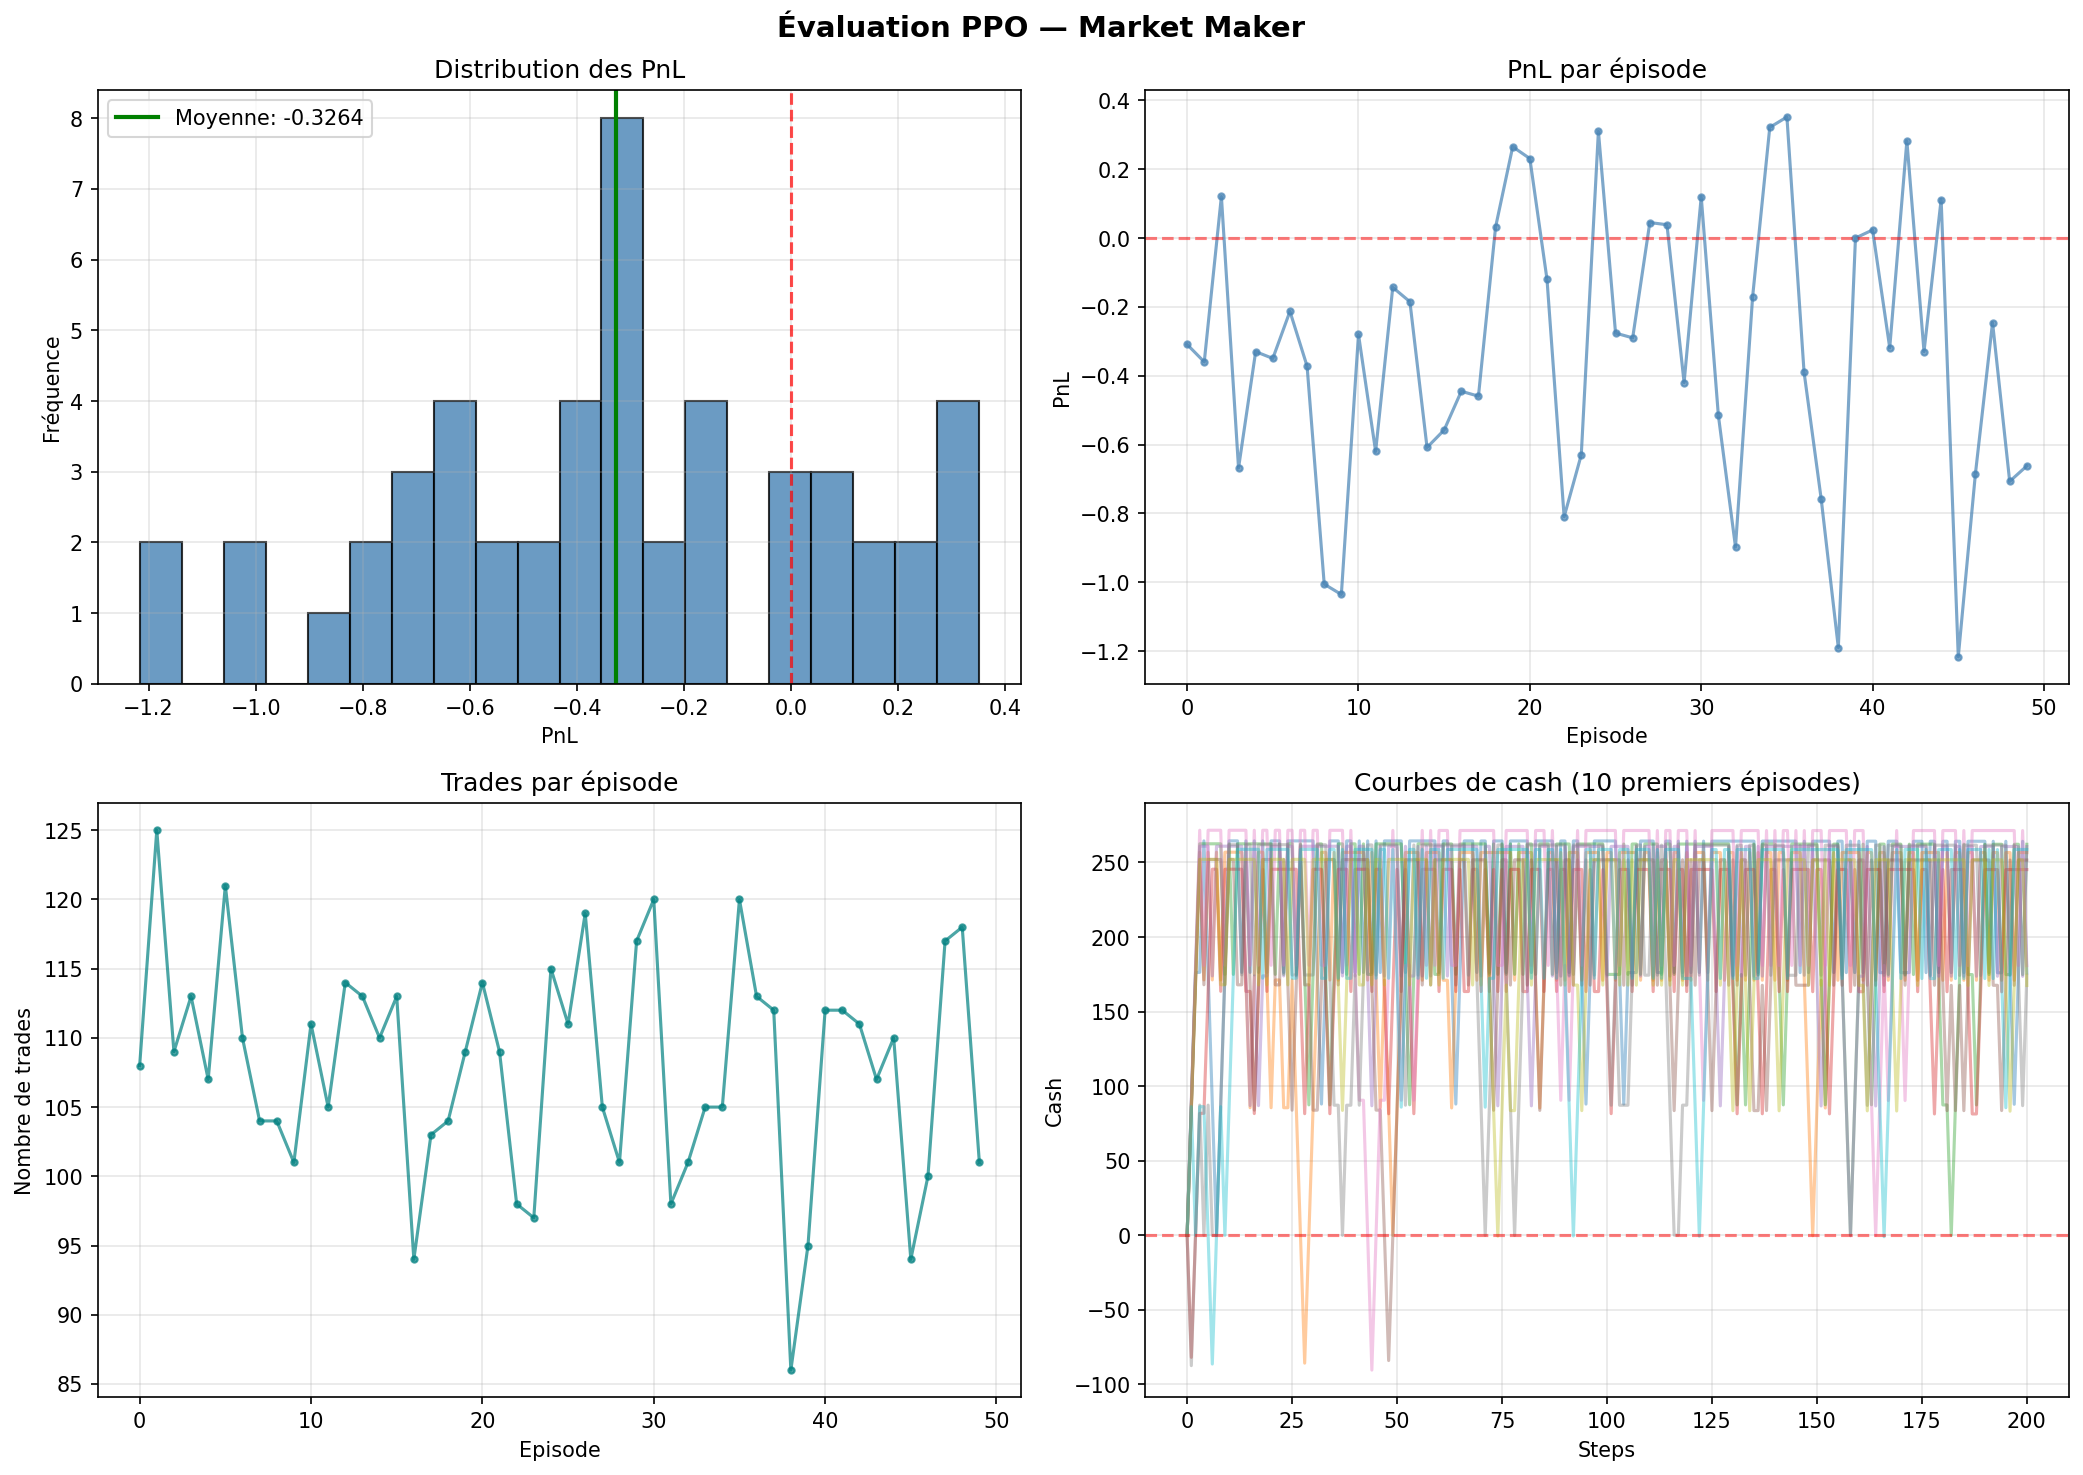
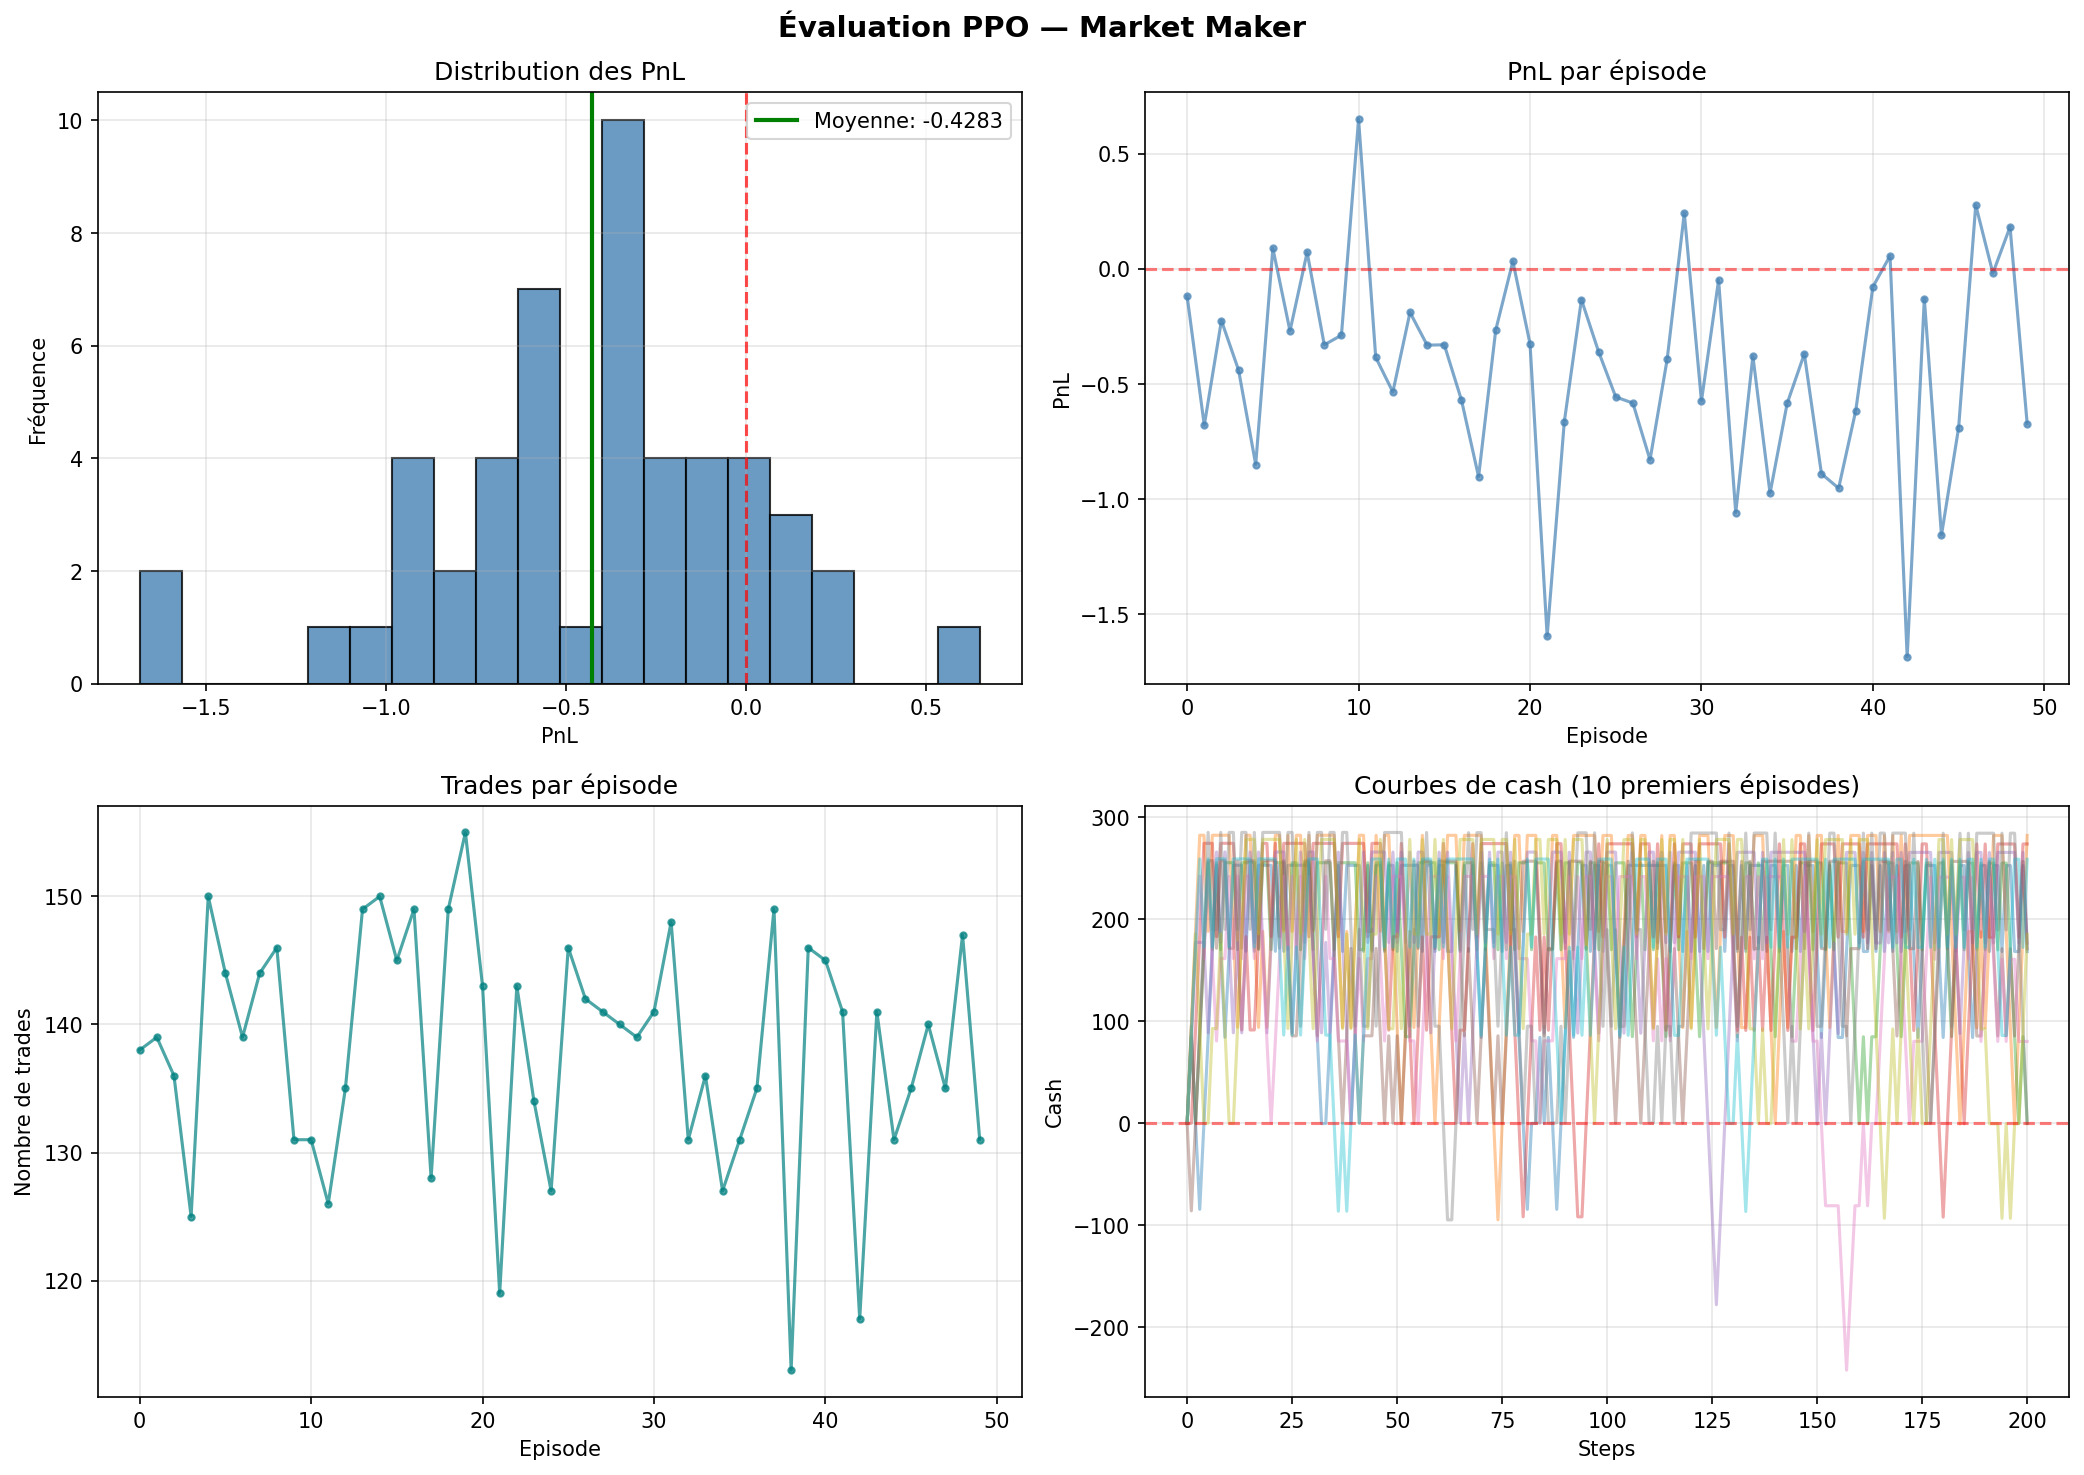
l'agent final

diff --git a/agents/ppo/train_ppo.py b/agents/ppo/train_ppo.py
@@ -80,7 +80,7 @@ class ContinuousBinanceEnv(gym.Env):
 
         self.inventory          = 0
         self.cash               = 0.0
-        self.old_mtm            = 0.0
+        self.old_cash           = 0.0
         self.episode_trades     = 0
         self.episode_inventories = []
 
@@ -122,6 +122,18 @@ class ContinuousBinanceEnv(gym.Env):
         next_low   = self.lows[self.current_step]
         next_close = self.closes[self.current_step]
 
+        #stratégie A 
+        #if next_low <= agent_bid_price and self.inventory < self.max_inventory:
+        #    self.inventory += 1
+        #    self.cash -= agent_bid_price
+        #    self.episode_trades += 1
+#
+        #if next_high >= agent_ask_price and self.inventory > -self.max_inventory:
+        #    self.inventory -= 1
+        #    self.cash += agent_ask_price
+        #    self.episode_trades += 1
+
+        # faire un acaht ou une vente  B
         filled = False
         if np.random.random() < 0.5:
             if next_low <= agent_bid_price and self.inventory < self.max_inventory:
@@ -146,17 +158,14 @@ class ContinuousBinanceEnv(gym.Env):
 
         self.episode_inventories.append(self.inventory)
 
-        mtm    = self.cash + self.inventory * next_close
-        reward = mtm - self.old_mtm
-        self.old_mtm = mtm
+        spread_reward = self.cash - self.old_cash
+        self.old_cash = self.cash
 
-        reward -= 0.0005 * (self.inventory ** 2) * next_close
+        inventory_penalty = 0.0005 * (self.inventory ** 2) * next_close
+        reward = spread_reward - inventory_penalty
 
         self.steps_this_episode += 1
         terminated = self.steps_this_episode >= self.max_steps
-
-        if terminated and self.inventory != 0:
-            reward -= 0.005 * abs(self.inventory) * next_close
 
         reward = np.clip(reward, -10.0, 10.0)
 
@@ -197,7 +206,7 @@ class ValueNetwork(nn.Module):
 class PPOAgent:
     def __init__(self, env, policy_network, value_network,
                  learning_rate=3e-4, gamma=0.99, clip_range=0.2,
-                 epochs=30, batch_size=256, lambda_=0.95, entropy_coeff=0.01):
+                 epochs=10, batch_size=256, lambda_=0.95, entropy_coeff=0.01):
         self.env            = env
         self.policy_network = policy_network
         self.value_network  = value_network
@@ -348,7 +357,7 @@ if __name__ == "__main__":
     device   = torch.device("cuda" if torch.cuda.is_available() else "cpu")
     print(f"Device : {device}")
 
-    env       = ContinuousBinanceEnv(csv_file, volume_threshold=100)
+    env       = ContinuousBinanceEnv(csv_file, volume_threshold=1000)
     input_dim = env.observation_space.shape[0]
 
     policy_net = PolicyNetwork(input_dim).to(device)
@@ -481,6 +490,6 @@ if __name__ == "__main__":
     ax.grid(True, alpha=0.3)
 
     plt.tight_layout()
-    plt.savefig("courbe_apprentissage.png", dpi=150, bbox_inches="tight")
+    plt.savefig("courbe_apprentissage_B.png", dpi=150, bbox_inches="tight")
     print("Courbes sauvegardées sous 'courbe_apprentissage.png'")
     plt.show()
